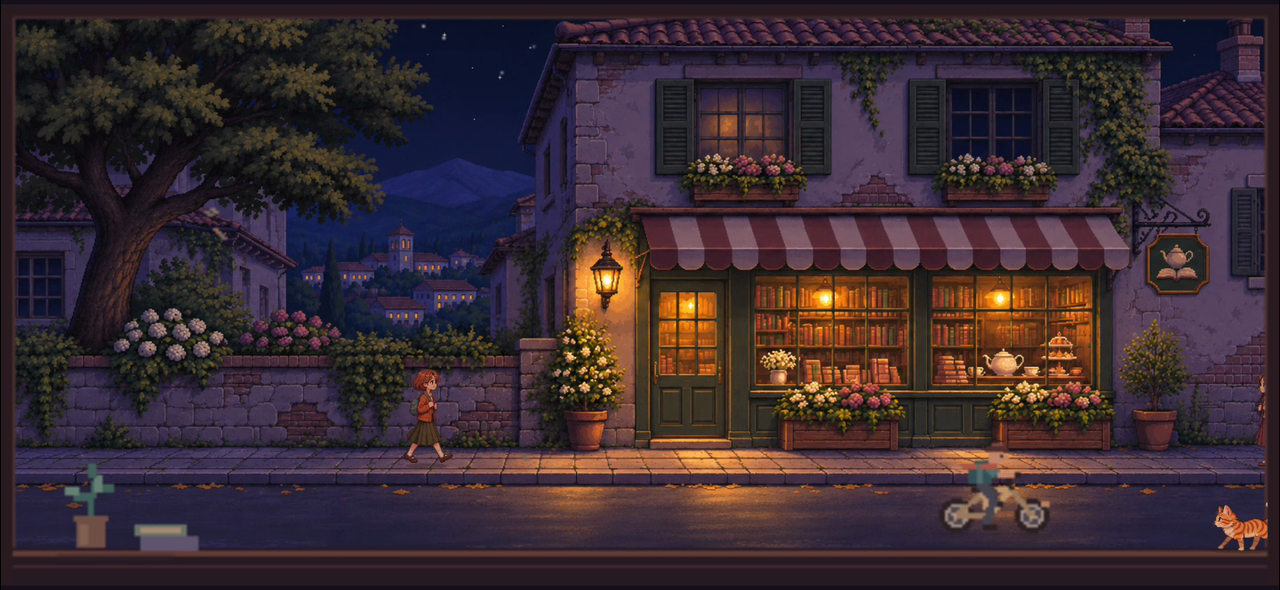
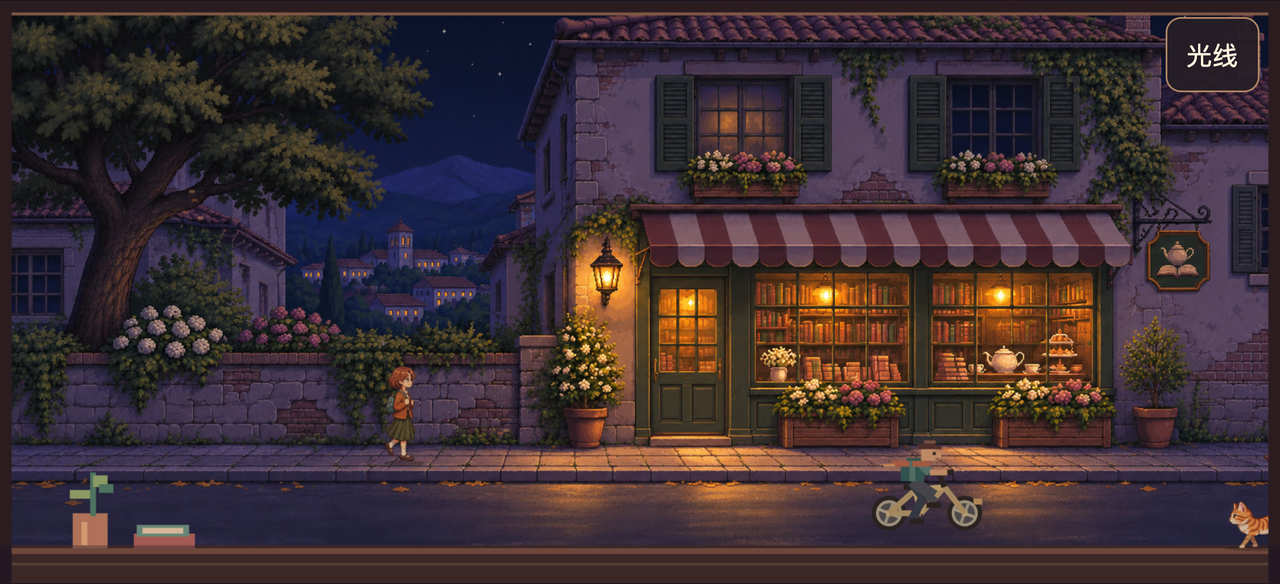
Refresh Android and iPhone Pixel Window screenshots

diff --git a/docs/index.html b/docs/index.html
@@ -33,7 +33,7 @@
         <small>用 Safari 添加到主屏幕</small>
       </a>
     </nav>
-    <img src="./media/night-preview.png" width="1280" height="590" alt="茶书店亮着暖灯，街上有行人和自行车，橘猫站在窗台右侧">
+    <img src="./media/day-preview.png" width="1280" height="590" alt="Android 实机画面，白天的茶书店门前有行人和骑车人经过">
     <p><a href="https://github.com/KeyOfTheQuestion/pixel-window-android">查看 GitHub 源码与使用说明</a></p>
   </main>
 </body>

diff --git a/README.md b/README.md
@@ -1,6 +1,6 @@
 # 像素窗景 · Pixel Window
 
-把一台闲置的 Android 手机或 iPhone 变成横屏像素窗景。窗外是一条有茶书店、行人和骑车人的街道，橘猫偶尔会到窗台走一圈。
+把一台闲置的 Android 手机或 iPhone 变成离线横屏窗景。骑车人从茶书店门前经过，橘猫踩着窗台散步，街景随北京日出和日落渐变。
 
 [像素窗景项目主页](https://keyofthequestion.github.io/pixel-window-android/)
 
@@ -9,7 +9,11 @@
 | Android 11 及以上 | [从 Releases 下载 APK](https://github.com/KeyOfTheQuestion/pixel-window-android/releases/latest) | [android/](android/) |
 | iPhone | [在 Safari 打开轻量版](https://keyofthequestion.github.io/pixel-window-android/iphone/) | [docs/iphone/](docs/iphone/) |
 
-![Redmi Note 9 上的夜景截图，茶书店亮着灯，街上有行人和自行车，橘猫在窗台右侧](docs/media/night-preview.png)
+## 界面截图
+
+| Android 原生版 · 1.1.6 实机 | iPhone 轻量版 · 横屏浏览器预览 |
+| --- | --- |
+| ![Redmi Note 9 上的日间茶书店街景，行人和自行车经过](docs/media/day-preview.png) | ![iPhone 横屏视口的夜间街景与光线设置入口](docs/media/night-preview.png) |
 
 ## Android 原生版
 
